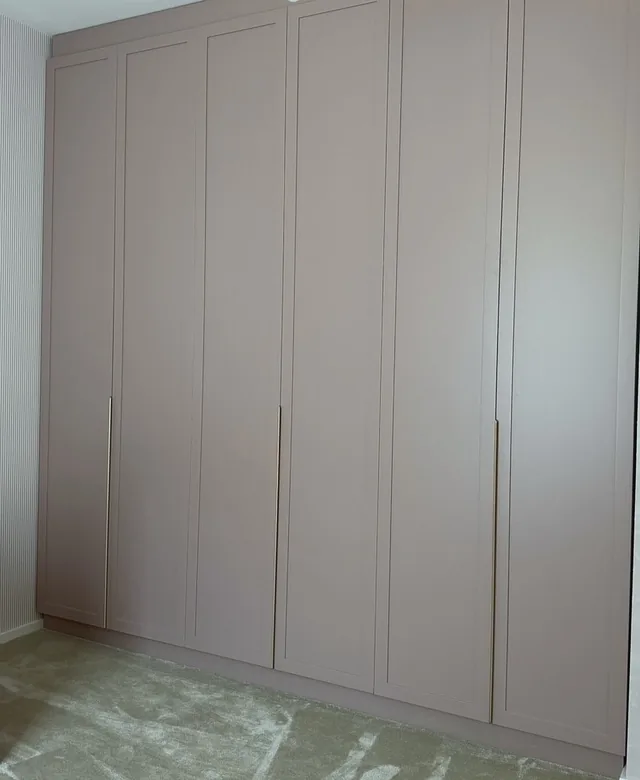
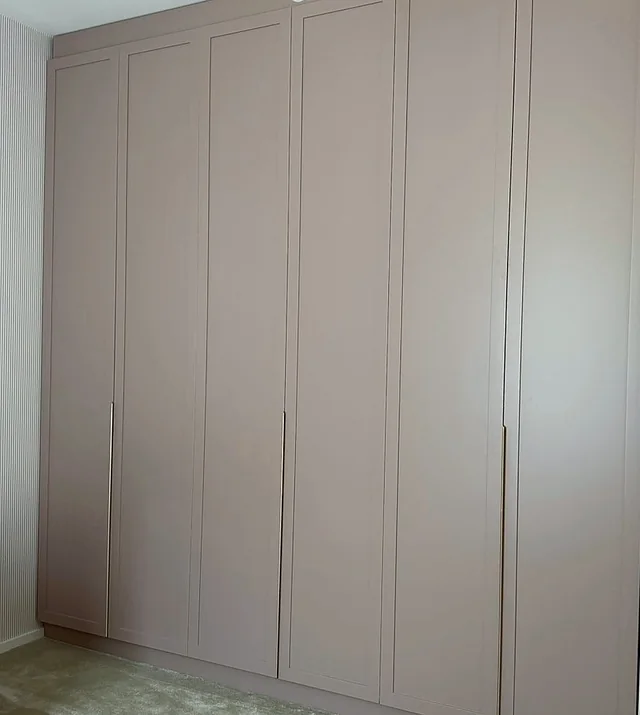
Sekcija „Za odlaganje“: bolje uklopljena fotografija plakara
Isečen svetli rub desno i deo tepiha dole, blago pojačani kontrast,
toplina i oštrina. Okvir prati nov odnos stranica (924×1033).

Claude-Session: https://claude.ai/code/session_01XyGy8R4byhML3PqergLw2H

diff --git a/index.html b/index.html
@@ -17,7 +17,7 @@
 <link rel="preload" as="image" href="assets/img/hero-desktop-1440.webp" imagesrcset="assets/img/hero-desktop-960.webp 960w, assets/img/hero-desktop-1440.webp 1440w, assets/img/hero-desktop.webp 2400w" imagesizes="100vw" media="(min-width: 901px)" fetchpriority="high">
 <link rel="preload" as="image" href="assets/img/hero-mobilni-800.webp" imagesrcset="assets/img/hero-mobilni-800.webp 800w, assets/img/hero-mobilni.webp 1200w" imagesizes="100vw" media="(max-width: 900px)" fetchpriority="high">
 <link rel="stylesheet" href="assets/css/fonts.css?v=20261120m">
-<link rel="stylesheet" href="assets/css/main.css?v=20261120m">
+<link rel="stylesheet" href="assets/css/main.css?v=20261120n">
 <script type="application/ld+json">{"@context":"https://schema.org","@type":"FurnitureStore","name":"Enterijer Mihić","slogan":"Nameštaj po vašim merama","telephone":"+381659114646","sameAs":["https://www.instagram.com/enterijer_mihic/"]}</script>
 </head>
 <body>
@@ -118,7 +118,7 @@
 <section class="world kids" id="decja" aria-labelledby="s03">
 <div class="sec"><div class="wrap">
 <div class="wsplit wsplit--rev" data-off="85">
-<div class="iw r-img wsplit__img" style="aspect-ratio: 938 / 1143"><img srcset="assets/img/19-640.webp 640w, assets/img/19.webp 938w" sizes="(max-width: 767px) 100vw, 50vw" src="assets/img/19.webp" width="938" height="1143" loading="lazy" decoding="async" alt="Ugradni plakar od poda do plafona, krilna vrata u boji starog roze sa uskim ramom i dugim zlatnim ručkama" style="object-position: 50% 50%"></div>
+<div class="iw r-img wsplit__img" style="aspect-ratio: 924 / 1033"><img srcset="assets/img/19-640.webp 640w, assets/img/19.webp 924w" sizes="(max-width: 767px) 100vw, 50vw" src="assets/img/19.webp" width="924" height="1033" loading="lazy" decoding="async" alt="Ugradni plakar od poda do plafona, krilna vrata u boji starog roze sa uskim ramom i dugim zlatnim ručkama" style="object-position: 50% 50%"></div>
 <div class="wsplit__t">
 <p class="wband__k r-up"><span class="badge badge--sm" aria-hidden="true">03</span><span>Plakari · Cipelarnici · Potkrovlje</span></p>
 <h2 class="wh" id="s03"><span class="mask"><span class="mi">Za odlaganje</span></span></h2>
